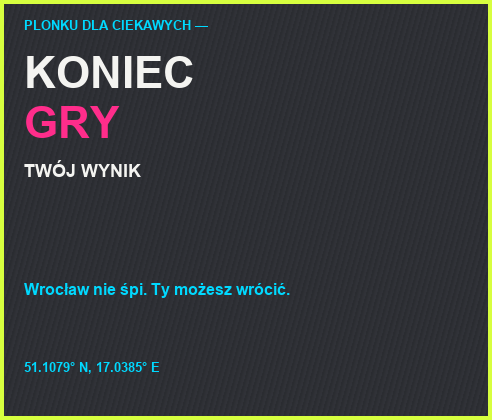
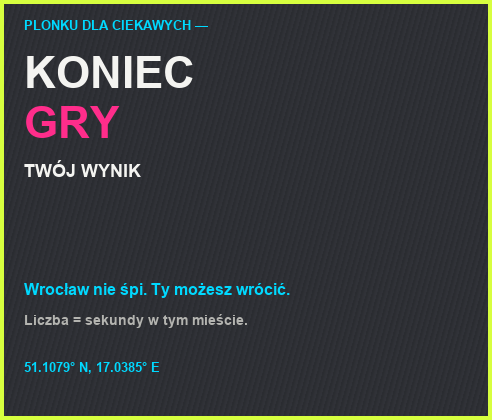
task: frame the score as seconds survived in the city
HUD tag SEK and copy make the integer readable without a design doc.

Changed region(s): [[0.0305, 0.7429, 0.5183, 0.7738]]

diff --git a/tools/build-plonku-art.py b/tools/build-plonku-art.py
@@ -239,7 +239,7 @@ def pack_ui() -> None:
     d.rectangle([0, 8, 300, 88], fill=(26, 29, 35, 210), outline=LIME, width=3)
     d.text((14, 14), "WYNIK", font=font(14), fill=LIME)
     draw_tag(d, (318, 18), "WROCŁAW", PINK, OFF, 16)
-    draw_tag(d, (318, 54), "FAKTY", CYAN, INK, 14)
+    draw_tag(d, (318, 54), "SEK", CYAN, INK, 14)
     hud.save(UI / "hud_bar.png")
 
     go = Image.new("RGBA", (492, 420), (18, 20, 26, 230))
@@ -251,6 +251,7 @@ def pack_ui() -> None:
     d.text((24, 98), "GRY", font=font(44), fill=PINK)
     d.text((24, 160), "TWÓJ WYNIK", font=font(18), fill=OFF)
     d.text((24, 280), "Wrocław nie śpi. Ty możesz wrócić.", font=font(16), fill=CYAN)
+    d.text((24, 312), "Liczba = sekundy w tym mieście.", font=font(14), fill=(180, 180, 176, 255))
     d.text((24, 360), "51.1079° N, 17.0385° E", font=font(13), fill=CYAN)
     go.save(UI / "go_panel.png")
     cta(460, 84, LIME, PINK, "SPRÓBUJ JESZCZE   ↺").save(UI / "cta_retry.png")

diff --git a/games/zombie-runner/COPY.md b/games/zombie-runner/COPY.md
@@ -13,8 +13,9 @@ Short. Tag-like. City as character. Retry is invitation, not an error. No gore j
 | Slot | PL |
 | --- | --- |
 | Title | Zombie Survival Score |
-| Start helper | Przetrwaj Wrocław. Dotknij, żeby biec. |
+| Start helper | Przetrwaj Wrocław. Wynik = sekundy w mieście. |
 | Score prefix | WYNIK |
+| Score meaning | Integer **seconds** survived this run. Arcade clock, not live open data. |
 | Game over title | KONIEC GRY |
 | Game over retry | Spróbuj jeszcze |
 | Mute (desktop) | U wycisza |
